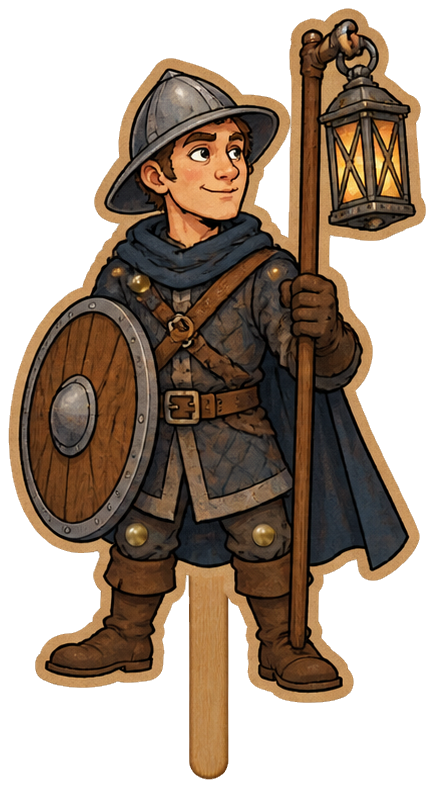
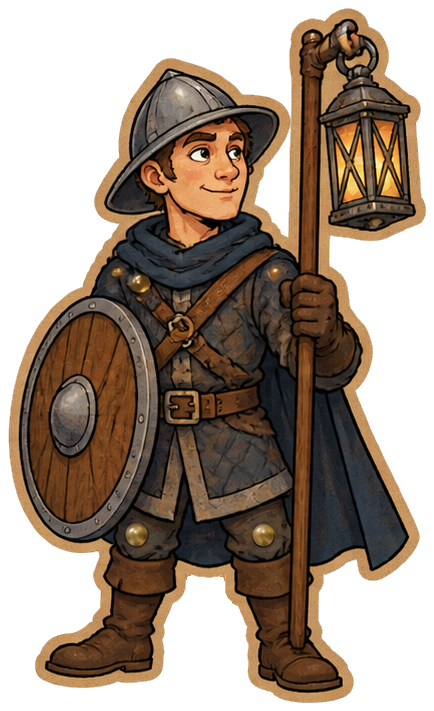
Remove puppet sticks, face the hunter right, dock the hero wordmark into the header
Claude-Session: https://claude.ai/code/session_011BfPdzTf3sZ781K9aZJLbN

diff --git a/docs/DECISIONS.md b/docs/DECISIONS.md
@@ -4,6 +4,7 @@ Log der Projektentscheidungen, neueste oben.
 
 | Datum | Entscheidung | Begründung |
 |---|---|---|
+| 2026-10-25 | **Figuren ohne Stäbe:** alle Pappfiguren und Papp-Handys stehen frei (Stäbe aus den Quellbildern entfernt), alle Figuren schauen standardmäßig nach rechts (Jäger gespiegelt); auf der Startseite wandert der große Schriftzug beim Scrollen in den Header | Die Stäbe störten und brachten gestalterisch kaum etwas; einheitliche Blickrichtung für das Wenden |
 | 2026-10-25 | **Relay-Server und Docker Compose schon in der Testversion:** `server/` (reines Dart, `dart:io`) leitet nur weiter; Host hält eine ausgehende Verbindung (`/host`), Spieler verbinden sich mit `/join/<online-code>` (8 Zeichen, ~40 Bit). Image aus `server/Dockerfile` (AOT-kompiliert, `scratch`, ohne Root, ~16 MB), `docker compose up -d` im Repo-Root, Healthcheck über das Binary. Ohne Ende-zu-Ende-Verschlüsselung kann das Relay die Nachrichten lesen; deshalb nur eigener Server bzw. Testbetrieb, bis Noise da ist. Offizielle Adresse per `--dart-define=RELAY_SERVER`, sonst eigener Server in den App-Einstellungen | Wunsch des Eigentümers: Server von Anfang an mit drin; die Host-Logik bleibt unverändert, das Relay ist nur ein weiterer Transport |
 | 2026-10-25 | **QR-Beitritt:** Host zeigt `https://whowolf.de/join?room=…&lan=ip:port&relay=…&srv=wss://…`; die App scannt (`mobile_scanner`, iOS/Android/macOS), prüft streng (Host, Pfad, nur bekannte Parameter, private IPv4, ws/wss-Origin) und fragt vor dem Verbinden nach. Verbindung zuerst direkt im WLAN, sonst über das Relay. Geheimnisse kommen später ins Fragment | Ein Link für alle Fälle, wie in ARCHITECTURE geplant |
 | 2026-10-25 | **Rejoin nach App-Neustart:** Sitzungstoken + Verbindungsdaten im sicheren Speicher (`flutter_secure_storage`: Keychain/Keystore/libsecret), „Zurück ins Spiel“ auf dem Startbildschirm; nach 30 erfolglosen Versuchen gibt die App auf. Der Host speichert den Spielstand noch nicht (Absturz des Hosts beendet die Runde) | Spieler kommen nach Sperren, Absturz oder Neustart mit genau ihrem Stand zurück |
